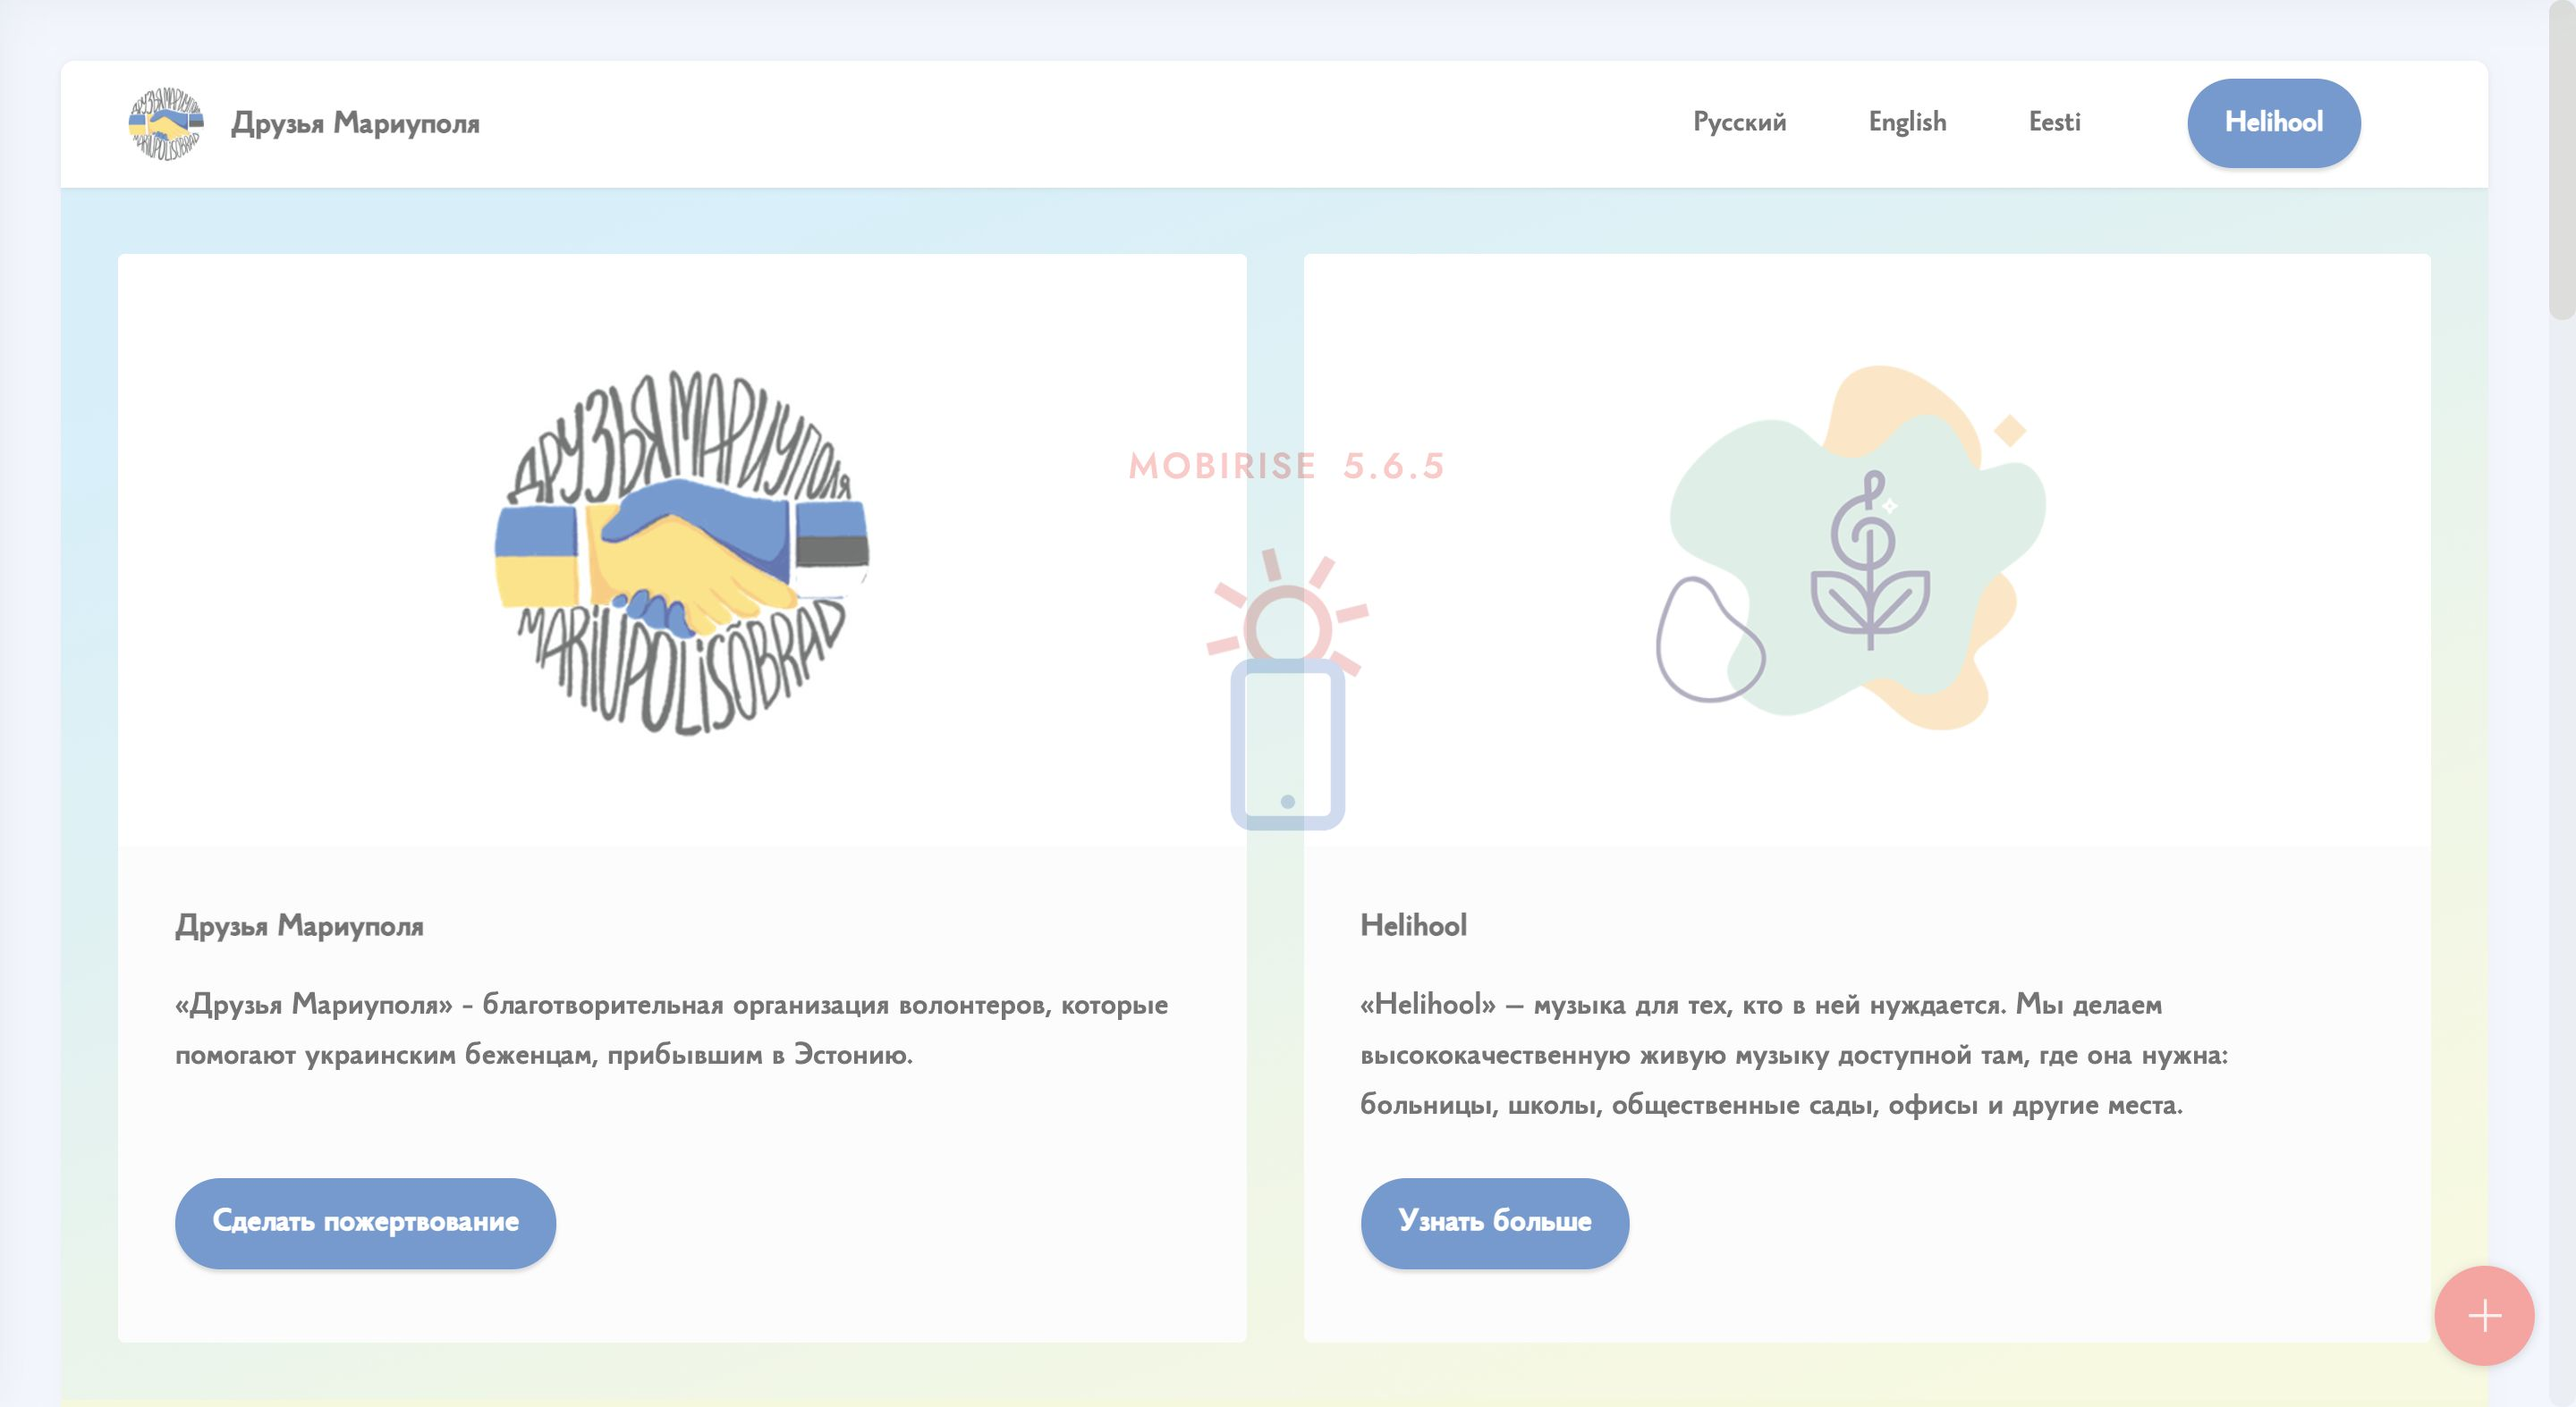
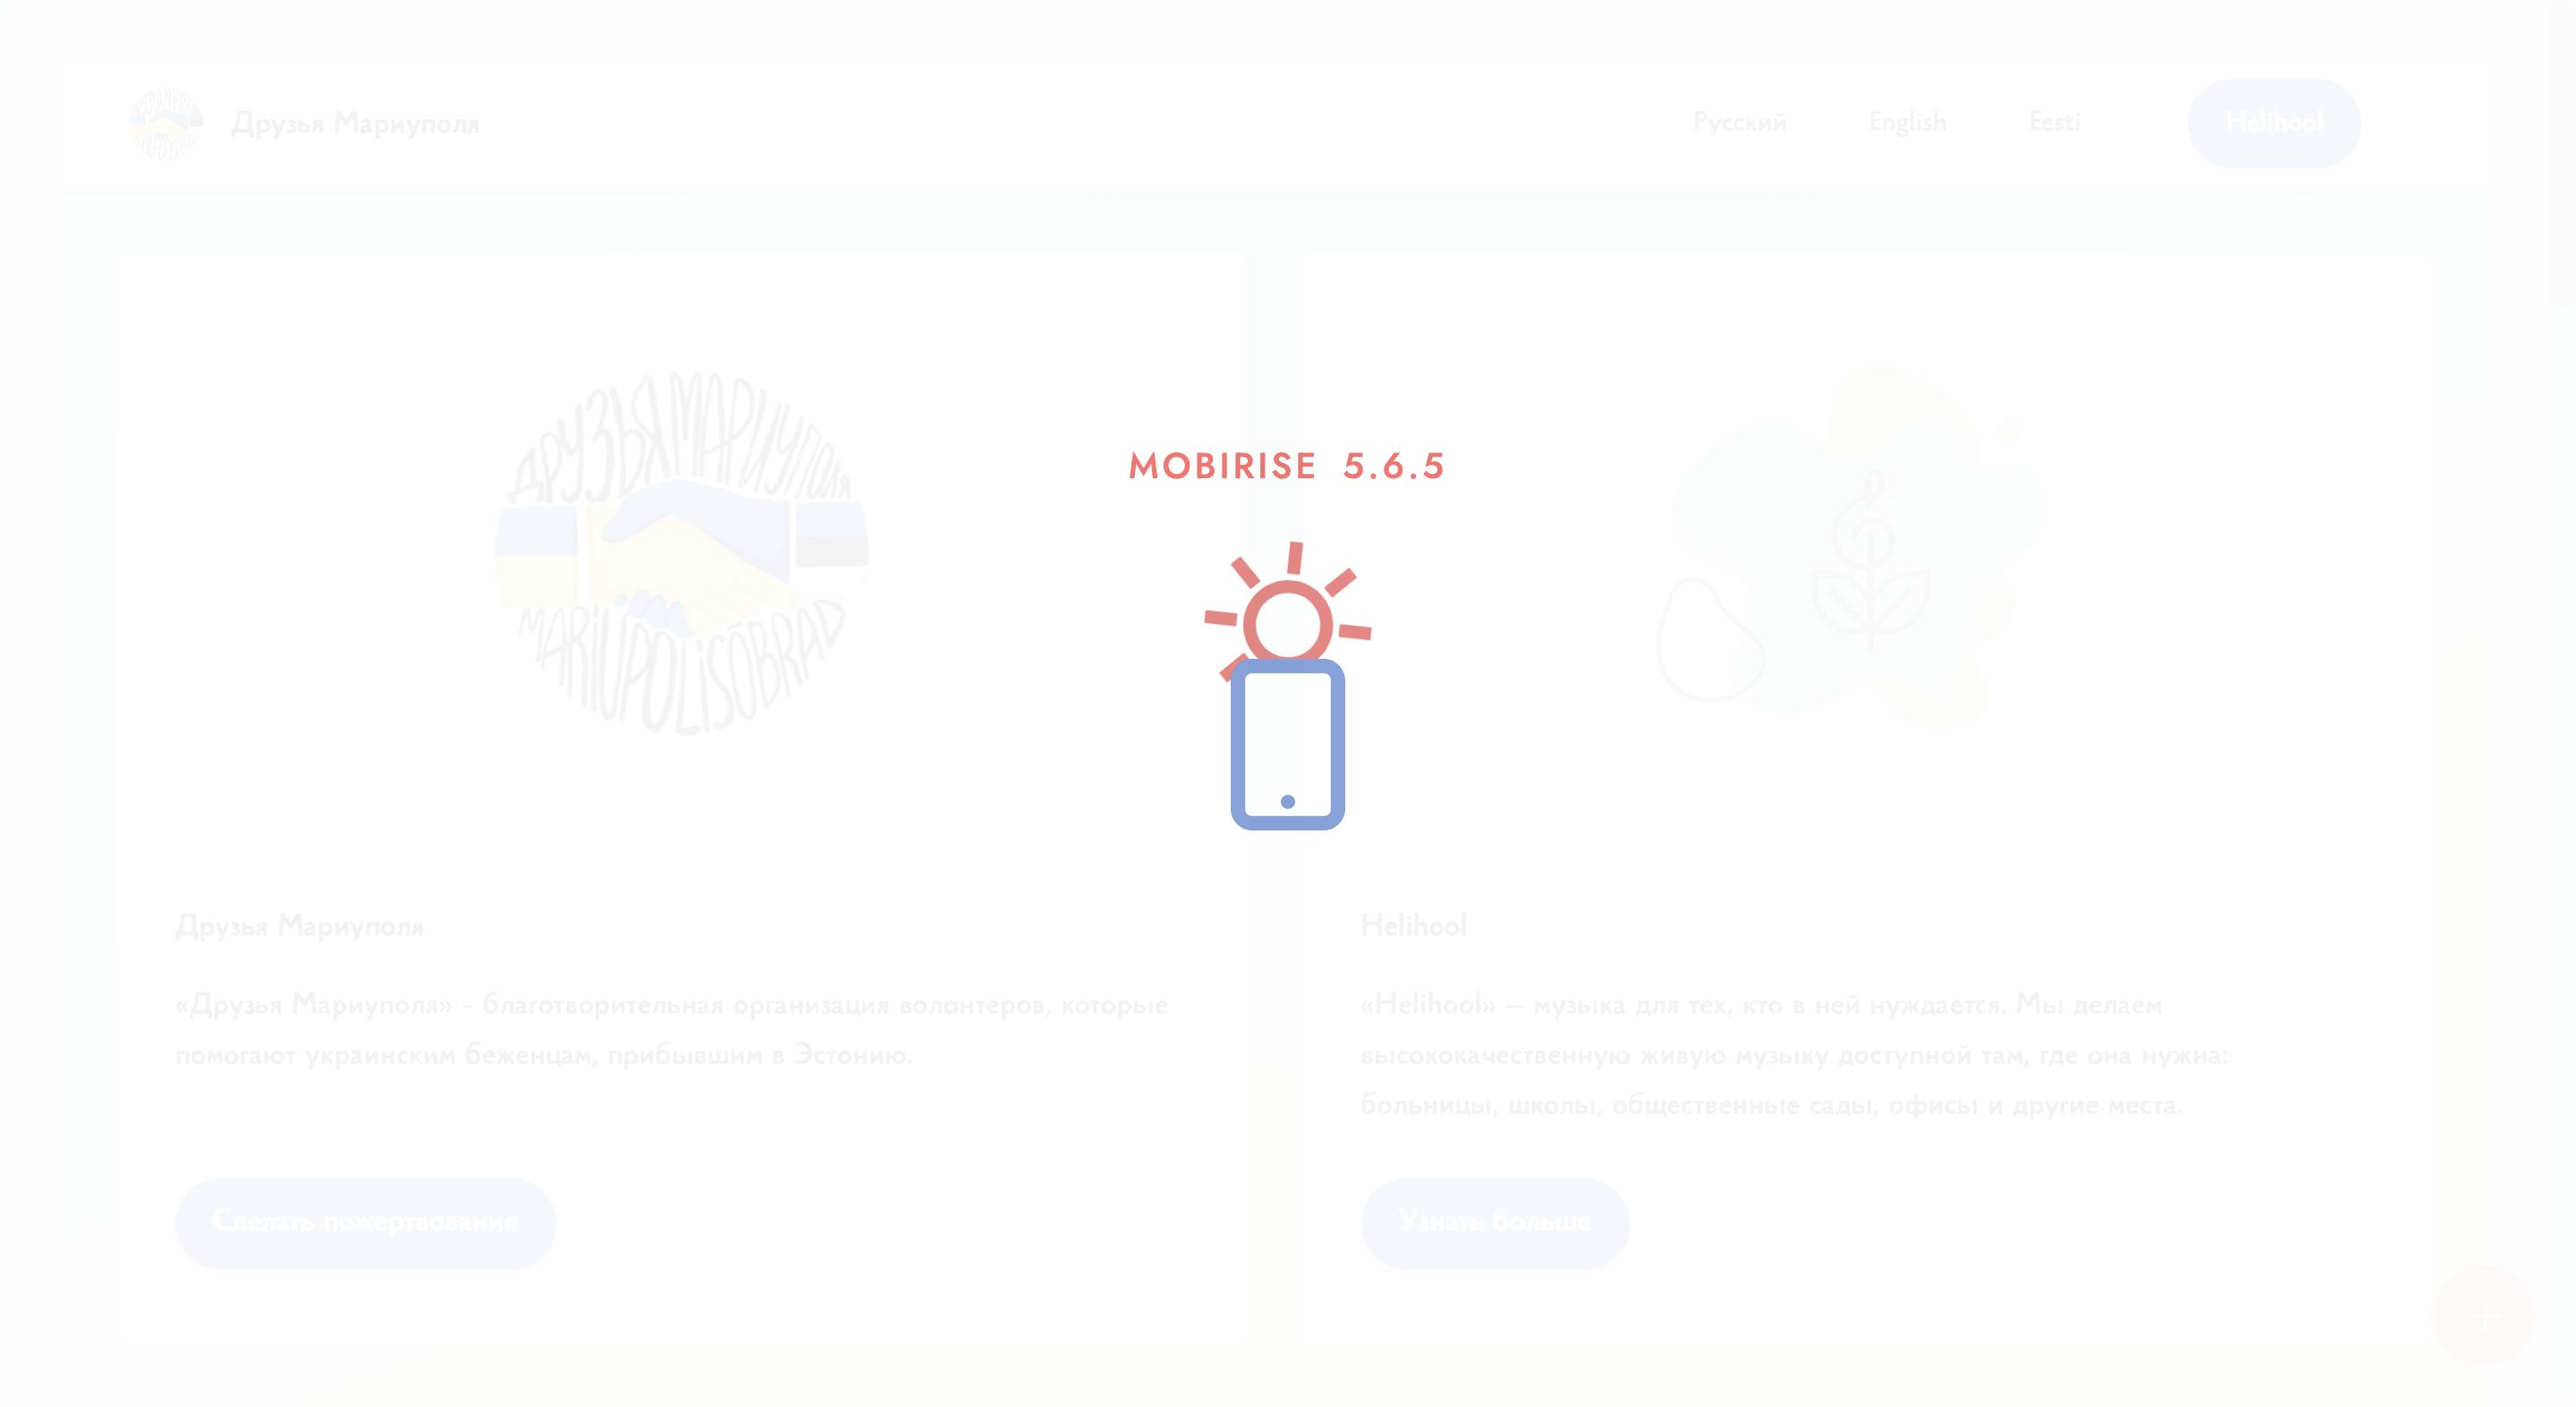
Fixes

diff --git a/index.html b/index.html
@@ -62,9 +62,7 @@
                 </div>
             </button>
             <div class="collapse navbar-collapse" id="navbarSupportedContent">
-                <ul class="navbar-nav nav-dropdown" data-app-modern-menu="true"><li class="nav-item"><a class="nav-link link text-black display-4" href="#">Русский</a></li>
-                    <li class="nav-item"><a class="nav-link link text-black display-4" href="#">English</a></li>
-                    <li class="nav-item"><a class="nav-link link text-black display-4" href="#">Eesti</a>
+                <ul class="navbar-nav nav-dropdown" data-app-modern-menu="true"><li class="nav-item"><a class="nav-link link text-black display-4" href="#"></a>
                     </li></ul>
                 
                 <div class="navbar-buttons mbr-section-btn"><a class="btn btn-primary display-4" href="https://helihool.ee/Helihool/index.html">Helihool</a></div>
@@ -164,7 +162,7 @@
                         <li><a href="https://t.me/help_mariupol_friends_tallinn" class="text-primary"><strong>Таллинн</strong></a></li>
                         <li><a href="https://t.me/help_mariupol_friends_narva" class="text-primary"><strong>Нарва</strong></a></li>
                         <p class="mbr-text mbr-fonts-style display-7"><br>Если есть желание помогать на регулярной основе, присоединяйтесь к нам!<br>Заполните эту анкету волонтера, и мы свяжемся как можно скорее: &nbsp;<br></p>
-                    <div class="mbr-section-btn mt-3"><a class="btn btn-secondary display-7" href="https://docs.google.com/forms/d/1Oeedk7tiXsaz0OYymeV3-YUHskokMOk3-aZ9fKqMB0Q/edit" target="_blank">Заполни анекту</a></div>
+                    <div class="mbr-section-btn mt-3"><a class="btn btn-secondary display-7" href="https://docs.google.com/forms/d/1Oeedk7tiXsaz0OYymeV3-YUHskokMOk3-aZ9fKqMB0Q/edit" target="_blank">Заполнить анкету</a></div>
                 </div>
             </div>
         </div>

diff --git a/assets/mobirise/css/mbr-additional.css b/assets/mobirise/css/mbr-additional.css
@@ -38,11 +38,11 @@ body {
 }
 .display-7 {
   font-family: '3A8F61_0_0';
-  font-size: 1.2rem;
+  font-size: 1.1rem;
   line-height: 1.5;
 }
 .display-7 > .mbr-iconfont {
-  font-size: 1.5rem;
+  font-size: 1.375rem;
 }
 /* ---- Fluid typography for mobile devices ---- */
 /* 1.4 - font scale ratio ( bootstrap == 1.42857 ) */
@@ -76,9 +76,9 @@ body {
     line-height: calc( 1.4 * (1.35rem + (2 - 1.35) * ((100vw - 20rem) / (48 - 20))));
   }
   .display-7 {
-    font-size: 0.96rem;
-    font-size: calc( 1.07rem + (1.2 - 1.07) * ((100vw - 20rem) / (48 - 20)));
-    line-height: calc( 1.4 * (1.07rem + (1.2 - 1.07) * ((100vw - 20rem) / (48 - 20))));
+    font-size: 0.88rem;
+    font-size: calc( 1.0350000000000001rem + (1.1 - 1.0350000000000001) * ((100vw - 20rem) / (48 - 20)));
+    line-height: calc( 1.4 * (1.0350000000000001rem + (1.1 - 1.0350000000000001) * ((100vw - 20rem) / (48 - 20))));
   }
 }
 /* Buttons */
